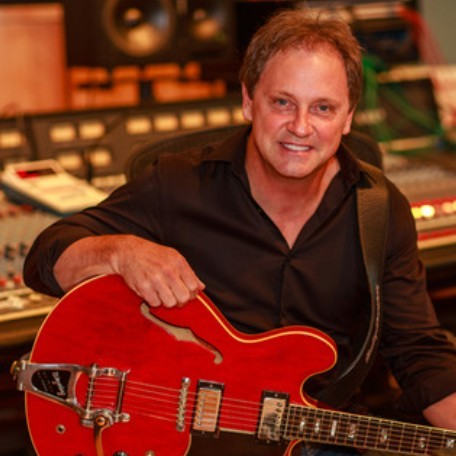
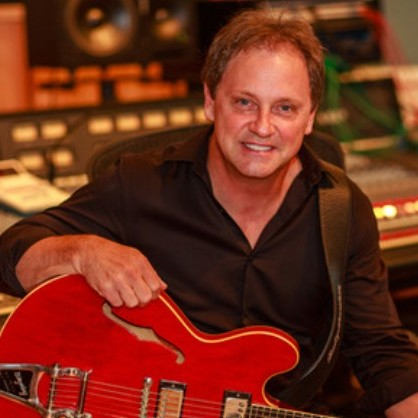
kent profile pic size change

diff --git a/index.html b/index.html
@@ -282,7 +282,7 @@
             </div>
 
             <div class="card5 card-common">
-                <img src="images/Kent Wells profile.jpg" class='profile-img'>
+                <img src="images/Kent Wells profile square.jpg" class='profile-img'>
                 <h2 class="name">Kent Wells</h2>
                 <p class="job-title">Consultant</p>
                 <div class="experience-btn">
